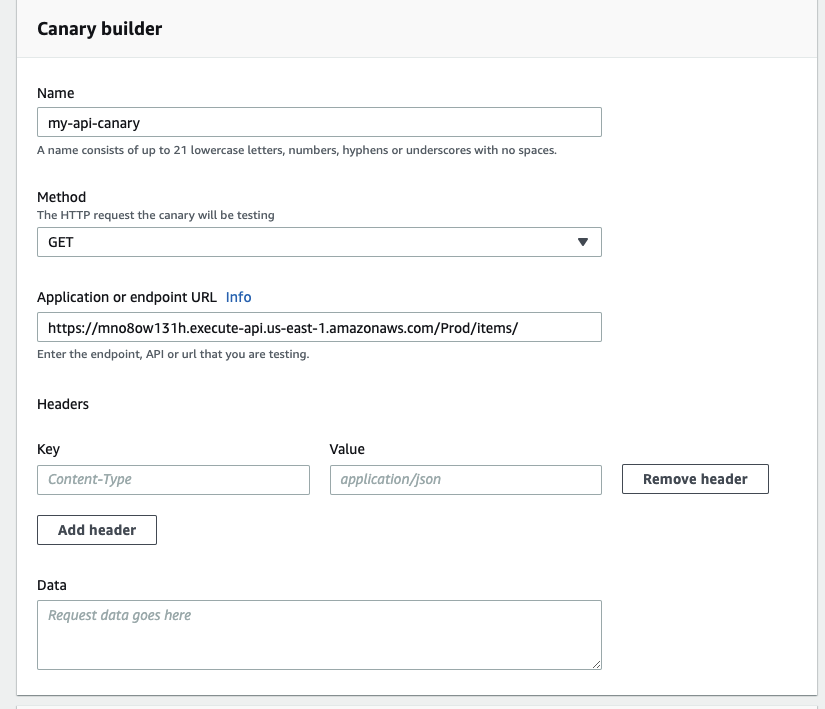
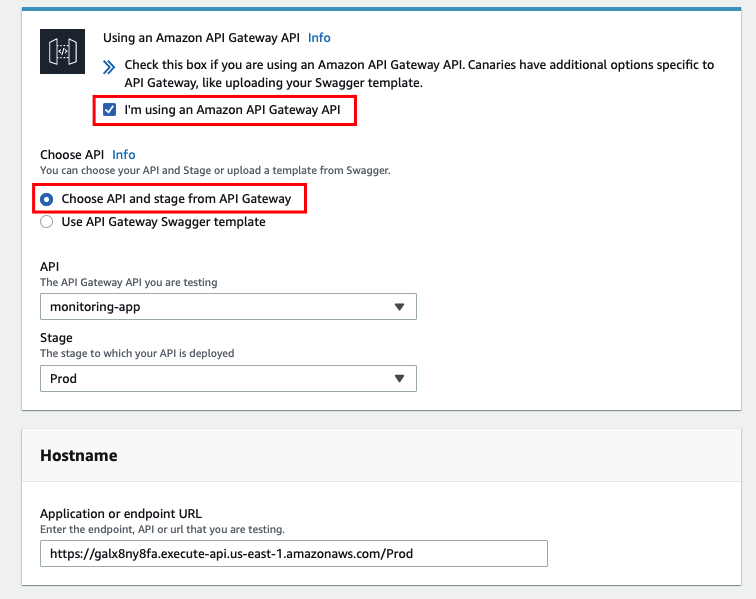
(workshop) Updated Canaries module

diff --git a/workshop/content/040_synthetics/api_logs.md b/workshop/content/040_synthetics/api_logs.md
@@ -12,13 +12,28 @@ Go to [Synthetics canary](https://console.aws.amazon.com/cloudwatch/home?#synthe
 
 1. Select **API canary** under **Blueprints**.
 1. Name it **my-api-canary**.
-1. Select the **GET** method.
-1. Add your API endpoint under **Application or endpoint URL** with the **/items** route.
-1. On **Schedule** configure it to run every **1 minute**.
+1. Check the **I'm using an Amazon API Gateway API** checkbox.
+1. Select the **Choose API and stage from API Gateway** option.
+1. Select the **monitoring-app** API.
+1. Select the **Prod** stage.
 
-![synthetics-2](/images/synthetics2.png)
+    Your API URL will be automatically selected.
 
-6. Accept all other default configurations and click **Create canary**.
+    ![synthetics-2](/images/synthetics2.png)
+
+1. Click on **Add HTTP Request**.
+1. Select **/items** under **Resource**.
+1. Select **GET** under **Method**.
+1. Accept all other default configurations and click  **Save**.
+
+    ![synthetics-timer](/images/synthetics_http_request.png)
+    ![synthetics-timer](/images/synthetics_http_request_1.png)
+
+1. On Schedule configure it to run every 1 minute.
+
+    ![synthetics-timer](/images/synthetics_timer.png)
+
+1. Accept all other default configurations and click **Create canary**.
 
 {{% notice tip %}}
 If you  didn't take a note of your API Url after deploying the sample app, you can always check for its CloudFormation Stack Output Variable of type the following command on your **Cloud9 environment terminal**.
